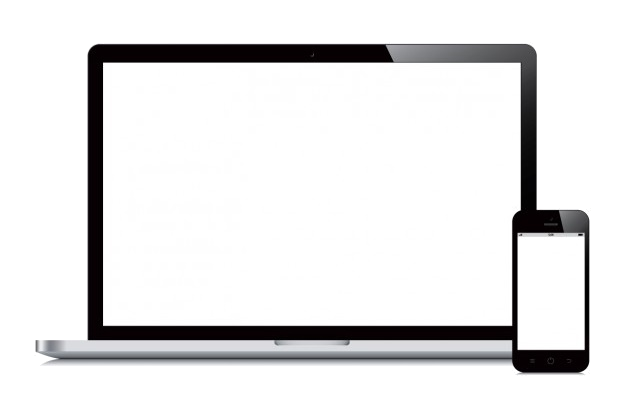
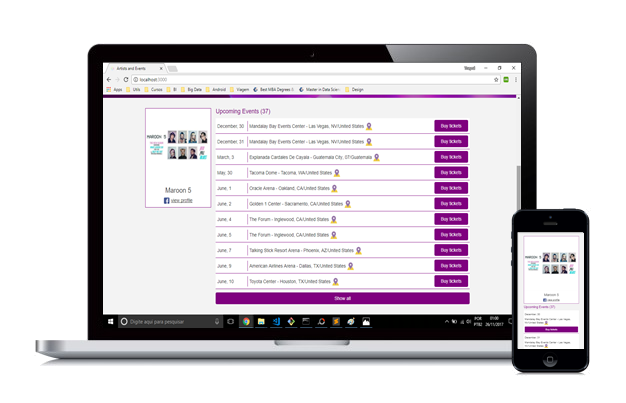
responsive layout and some adjustes

Changed region(s): [[0.1518, 0.1489, 0.9409, 0.9231], [0.2428, 0.4467, 0.3035, 0.5062]]

diff --git a/src/components/Artist.js b/src/components/Artist.js
@@ -41,15 +41,15 @@ class Artist extends Component {
                         </div>
                     </div>
                     <div className="col-md-8 col-sm-8 col-xs-12 p-0">
-                        {this.props.events && this.props.events.length > 0 ?
+                        {this.props.artist.upcoming_event_count > 0 && this.props.events ?
                             <div className="events">
-                                <h4 className="txt-purple m-0">Upcoming Events</h4>
+                                <h4 className="txt-purple m-0">Upcoming Events ({this.props.artist.upcoming_event_count})</h4>
                                 <div className="event-list">
                                     {this.props.events.map( (item, index) => 
                                         <EventItem item={item} key={item.id} index={index} />
                                     )}
                                 </div>
-                                {this.props.events.length > 10 ? 
+                                {this.props.artist.upcoming_event_count > 10 ? 
                                     <div>
                                         <button className="btn btn-purple btn-block btn-show-all" id="show-all-events" onClick={(e) => this.showAll(e)}>Show all</button>
                                     </div>
@@ -57,7 +57,7 @@ class Artist extends Component {
                             </div>
                             :
                             <div className="events">
-                                <h4 className="m-0">Any events found!</h4>
+                                <h4 className="m-0">No events found.</h4>
                             </div>
                         }
                     </div>

diff --git a/src/Actions.js b/src/Actions.js
@@ -13,9 +13,11 @@ export function getArtist(artistName){
                         .then( response =>{ 
                             if(response.data.name){
                                 setStorage(ARTIST, JSON.stringify(response.data))
-                                setStorage(ARTIST, JSON.stringify(response.data))
                                 dispatch(setReducer(ARTIST, response.data)); 
-                                dispatch(getEventsArtist(response.data.name));
+                                window.localStorage.removeItem('EVENTS');
+                                if(response.data.upcoming_event_count > 0){
+                                    dispatch(getEventsArtist(response.data.name));
+                                }
                             } else {
                                 dispatch(setReducer(ARTIST_ERROR, true)); 
                                 dispatch(setReducer(ARTIST, {})); 
@@ -33,7 +35,6 @@ export function getEventsArtist(artistName){
                         .then( response =>{ 
                             if(response.data.length > 0){
                                 setStorage(EVENTS, JSON.stringify(response.data));
-                                window.localStorage.removeItem('EVENTS');
                                 dispatch(setReducer(EVENTS, response.data)); 
                             } else {
                                 dispatch(setReducer(EVENTS, [])); 

diff --git a/public/css/style.css b/public/css/style.css
@@ -93,6 +93,7 @@ footer{
 .header-presentation img{
     width: 60px;
     margin-bottom: 8px;
+    margin-right: 10px;
 }
 
 .events{
@@ -108,6 +109,8 @@ footer{
     border-bottom: 1px solid #7F007F;
     padding: 5px;
     min-height: 45px;
+    display: flex;
+    justify-content: space-between;
 }
 
 .event-item span{
@@ -139,6 +142,10 @@ footer{
     background-color: #f3f3f3;
 }
 
+.mockup-info img{
+    margin: 0 auto;
+}
+
 .mockup-info span{
     font-size: 16px;
 }
@@ -151,7 +158,6 @@ footer{
 .header-presentation span{
     font-size: 24px;
     color: white;
-    margin-left: 10px;
     vertical-align: bottom;
 }
 
@@ -209,6 +215,24 @@ footer{
         bottom: -120px;    
     }
 
+    .flex-250{
+        height: 180px;
+    }
+    
+    .mockup-info, .header-presentation{
+        text-align: center;
+    }
+
+    .header-presentation img{
+        width: 50px;
+        display: block;
+        margin: 10px auto;
+    }
+
+    .header-presentation span{
+        font-size: 18px;
+        margin-left: 0px;
+    }
     .btn-tickets{
         display: block !important;
         width: 100%;
@@ -219,8 +243,12 @@ footer{
         padding: 0px;
     }
 
-    .event-item span{
+    .event-item{
         display: inline-block;
+        width: 100%;
+    }
+    .event-item span{
+        display: block;
         border: 0px;
     }
     

diff --git a/src/components/EventItem.js b/src/components/EventItem.js
@@ -37,11 +37,12 @@ export default class Artist extends Component {
     render() {
         return (
             <div className={`event-item ${this.props.index > 10 ? 'event-hidden' : ''}`}>
+                <div>
                 <span className="date-border">{this.handleDate(this.props.item.datetime)}</span>
                 <span>{this.props.item.venue.name} - {this.props.item.venue.city}, {this.props.item.venue.region ? this.props.item.venue.region + '/' : '' }{this.props.item.venue.country}
                     <img src="/img/icon/maps.png" width="22px" className="cursor" onClick={(e) => this.openMaps(e, this.props.item.venue)} />
                 </span>
-                
+                </div>
                 { this.props.item.offers.length ? 
                     <button className="btn btn-purple pull-right btn-tickets" onClick={(e) => this.openTickets(e, this.props.item)} disabled={this.props.item.offers[0].status !== 'available'}>Buy tickets</button>
                 : null}

diff --git a/src/components/Header.js b/src/components/Header.js
@@ -65,8 +65,7 @@ class Header extends Component {
                 <div className="row">
                     <div className="col-md-offset-2 col-md-8 col-sm-12 col-xs-12 text-center">
                         <div className="header-presentation">
-                            <img src="/img/icon/white-logo.svg"/>
-                            <span>The easiest way to find your favorite artists and their events!</span>
+                            <span><img src="/img/icon/white-logo.svg"/>The easiest way to find your favorite artists and their events!</span>
                         </div>
                         <div className="form-inline">
                             <div className="form-group m-10">

diff --git a/src/components/MockupInfo.js b/src/components/MockupInfo.js
@@ -6,7 +6,7 @@ export default class MockupInfo extends Component {
             <div className="row mockup-info">
                 <div className="col-md-offset-1 col-md-3 col-sm-offset-1 col-sm-3 col-xs-12">
                     <div className="flex-250">
-                        <img src="../img/mockup.png" width="100%"/>
+                        <img src="../img/mockup.png" width="300px"/>
                     </div>
                 </div>
                 <div className="col-md-7 col-sm-8 col-xs-12">
